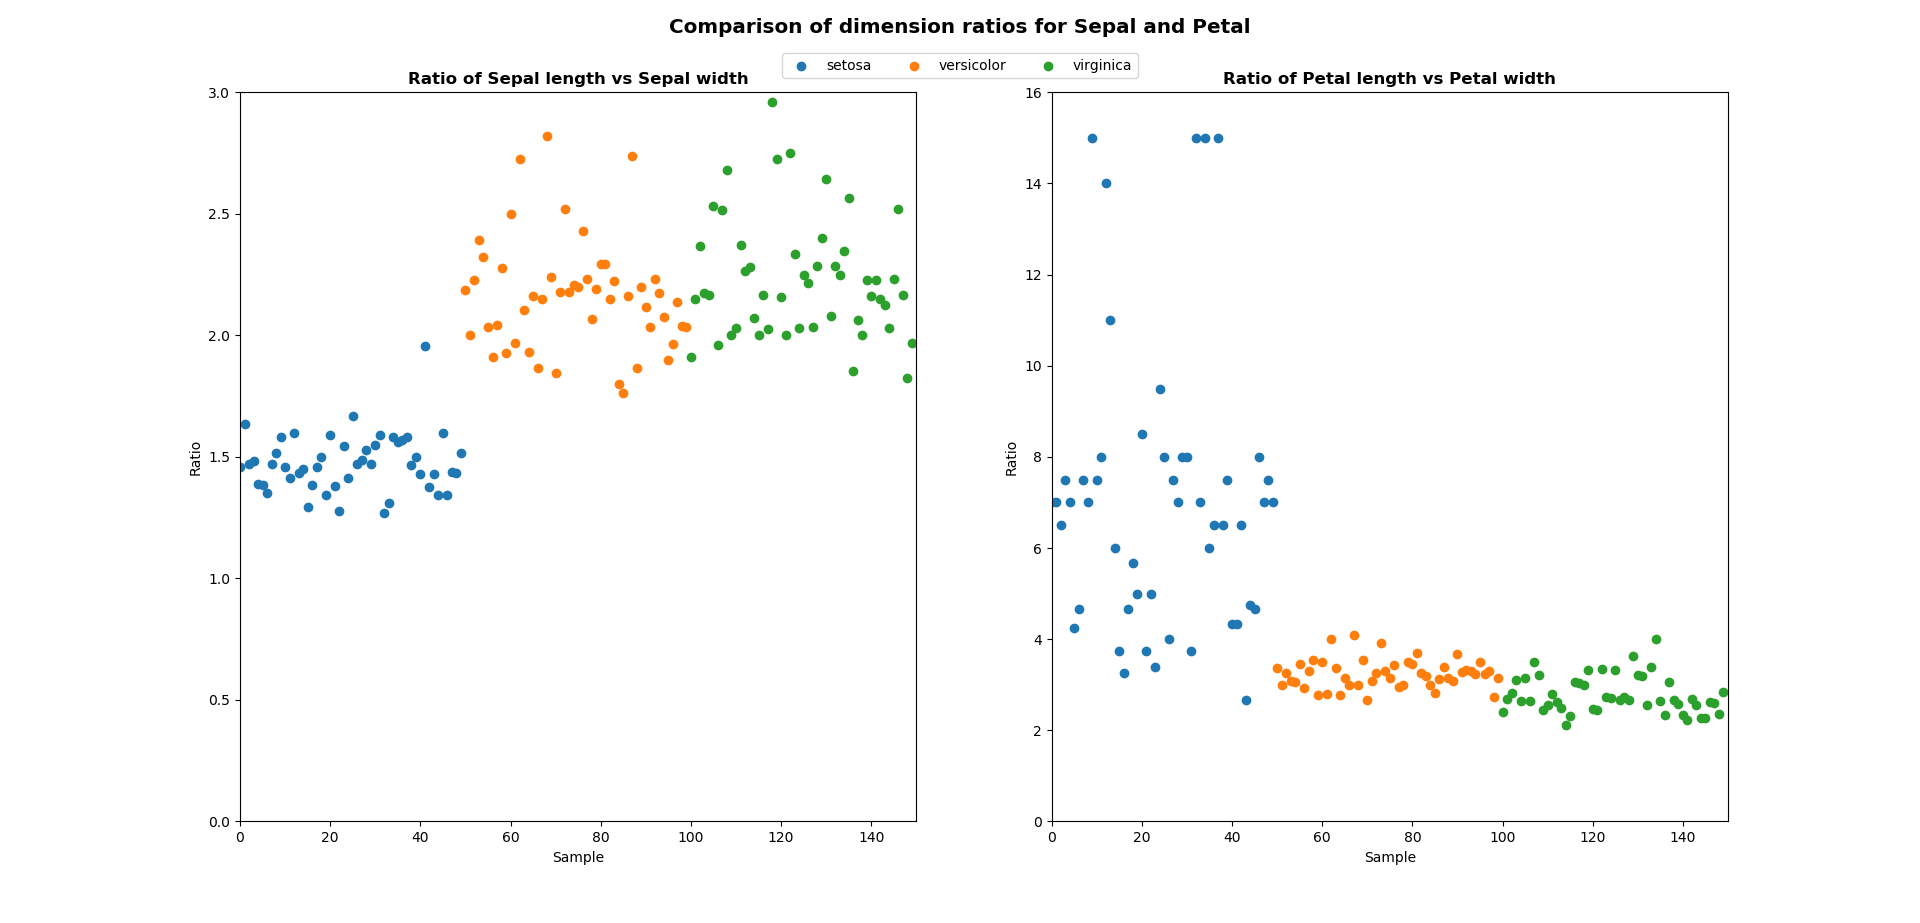
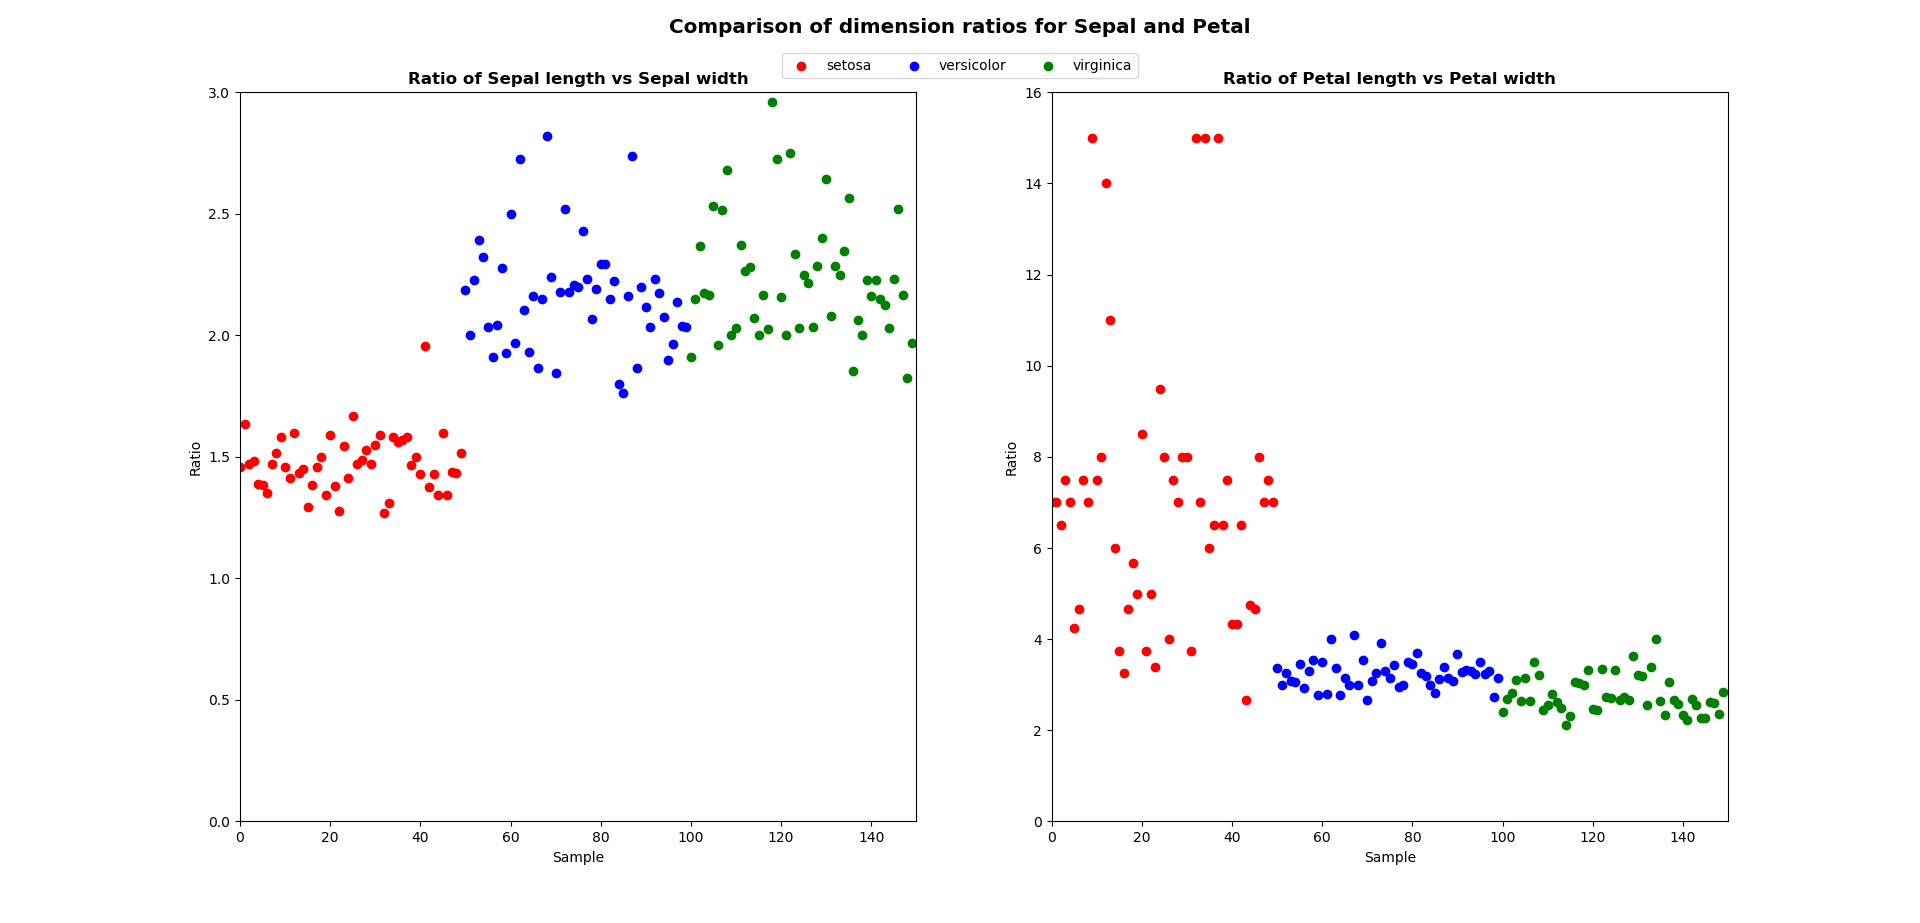
Updated dimensional_ratios.py for plots to be correctly colour coded. Also completed some stats on ratios. Finally, updated Readme.me

diff --git a/dimensional_ratios.py b/dimensional_ratios.py
@@ -1,9 +1,14 @@
-# Code to plot the Fisher's data set data for  individual attributes and compare species
+# Code to plot the Fisher's data set data to compare species wrt sepal and petal dimensional ratios
 # Barry Clarke
-# Rev0 - 19th Apr 2019
+# Rev2 - 19th Apr 2019 - Update to customise colour coding of data to be same as comparison.py
+#                      - Incorporate table of stats for ratios
 
 import matplotlib.pyplot as plt
+import matplotlib.cm as cm # Used for designating colors to particular plots
 import pandas as pd
+import numpy as np
+import datetime
+import csv
 
 # Unlike comparison.py, using dataframes to manipluate data in this program
 df = pd.read_csv('iris.csv', index_col=None)
@@ -16,17 +21,31 @@ st = fig.suptitle("Comparison of dimension ratios for Sepal and Petal", fontsize
 plt.subplot(1,2,1)
 ratio1 = df["sepal_length"]/df["sepal_width"]
 for name, group in df.groupby("species"):   # plot the data by specie. ref: https://stackoverflow.com/questions/45862223/use-different-colors-in-scatterplot-for-iris-dataset
-    plt.scatter(group.index, ratio1[group.index], label=name)
+    # designating specific colours for each group of specie. Ref: https://towarddatascience.com/customizing-plots-with-python-matplotlib-bcf02691931f
+    if name=='setosa':
+        colors = ['#FF0000'] 
+    elif name=='versicolor':
+        colors = ['#0000ff']
+    else:
+        colors = ['#008000']
+    plt.scatter(group.index, ratio1[group.index], label=name, color = colors)
     plt.title("Ratio of Sepal length vs Sepal width", fontweight='bold')
     plt.xlabel("Sample")
     plt.ylabel("Ratio")
     plt.axis([0,150, 0,3])
 
+
 # Plot the ratio of Petal length vs Petal width
 plt.subplot(1,2,2)
 ratio2 = df["petal_length"]/df["petal_width"]
 for name, group in df.groupby("species"):
-    plt.scatter(group.index, ratio2[group.index])
+    if name=='setosa':
+        colors = ['#FF0000']
+    elif name=='versicolor':
+        colors = ['#0000ff']
+    else:
+        colors = ['#008000']
+    plt.scatter(group.index, ratio2[group.index], color = colors)
     plt.title("Ratio of Petal length vs Petal width", fontweight='bold')
     plt.xlabel("Sample")
     plt.ylabel("Ratio")
@@ -37,3 +56,40 @@ fig.subplots_adjust(left=None, bottom=None, right=None, top=0.9)    #Ref: https:
 fig.legend(loc='upper center', bbox_to_anchor=(0.5, 0.95), ncol=3)
 
 plt.show()
+
+# Calculating the mean and standard deviation for the ratios of each specie
+meansetsep = np.mean(ratio1[0:49]) # Avearge of the sepal length/sepal width for the Setosa
+stdsetsep = np.std(ratio1[0:49])   # Standard deviation of the sepal length/sepalwidth for the Setosa
+meansetpet = np.mean(ratio2[0:49]) # Avearge of the petal length/petal width for the Setosa
+stdsetpet = np.std(ratio2[0:49])   # Standard deviation of the petal length/petal width for the Setosa
+
+meanversep = np.mean(ratio1[50:99]) # Avearge of the sepal length/sepal width for the Versicolor
+stdversep = np.std(ratio1[50:99])   # Standard deviation of the sepal length/sepalwidth for the Versicolor
+meanverpet = np.mean(ratio2[50:99]) # Avearge of the petal length/petal width for the Versicolor
+stdverpet = np.std(ratio2[50:99])   # Standard deviation of the petal length/petal width for the Versicolor
+
+meanvirsep = np.mean(ratio1[100:149]) # Avearge of the sepal length/sepal width for the Virginica
+stdvirsep = np.std(ratio1[100:149])   # Standard deviation of the sepal length/sepalwidth for the Virginica
+meanvirpet = np.mean(ratio2[100:149]) # Avearge of the petal length/petal width for the Virginica
+stdvirpet = np.std(ratio2[100:149])   # Standard deviation of the petal length/petal width for the Virginica
+
+# Create a csv filenme from the current date and time
+filename  = datetime.datetime.strftime(datetime.datetime.now(), "Ratio_statistics_%d-%m-%Y.csv")
+
+with open(filename, "w", newline='') as f:
+    # Enable CSV writing to the file
+    writer = csv.writer(f)
+    writer.writerow(["", "", "length/width dimensional ratios", "", ""])
+    # Write a header now
+    writer.writerow(["Sepal or Petal?", "Statistic", "Setosa", "Versicolor", "Virginica"])
+    writer.writerow(["Sepal", "Average", format(meansetsep, '.3f'), format(meanversep, '.3f'), format(meanvirsep, '.3f')])
+    writer.writerow(["Sepal", "Std Dev", format(stdsetsep, '.3f'), format(stdversep,'.3f'), format(stdvirsep, '.3f')])
+    writer.writerow(["Petal", "Average", format(meansetpet, '.3f'), format(meanverpet, '.3f'), format(meanvirpet, '.3f')])
+    writer.writerow(["Petal", "Std Dev", format(stdsetpet, '.3f'), format(stdverpet,'.3f'), format(stdvirpet, '.3f')])
+    writer.writerow([])   
+
+
+
+
+
+

diff --git a/README..md b/README..md
@@ -46,6 +46,8 @@ From these plots, we can make a number of observations:
 1. The sepal lengths and sepal widths for all 3 species are pretty similar, whereas there appears to be a difference in the petal length and petal widths across the 3 species.
 2. The Setosa petal length and width clearly varies from the Versicolor and Virginica petal lengths and widths. It has a smaller petal. It is is quite easy to differentiate the Setosa from the other two species on the basis of the petal dimensions
 3. It is more difficult to differentiate the Versicolor and the Virginica. As the plots show, although the Versicolor petal is slightly smaller in both length and width than the Virginica, there is still some crossover in the data for the Versicolor and Virginica petal. This means that, given a random petal, it would be difficult to decide whether it was a Versicolor or a Virginica.
+4. Looking at the data set a little deeper to try and find improved methods of differentiating all three species from each other with high probability, we have compared and contrasted the ratios of the length/width dimensions for the Sepal and Petal of all three species. These are shown in ![Comparison_of_dimensional_ratios_for_sepal_and_petal.png](/Images/Comparison_of_dimensional_ratios_for_sepal_and_petal.png)) in the Images directory and were calculated and plotted using the [dimensional_ratios.py](dimensional_ratios.py) program. We used pandas and represented the data in dataframes for this program, which is a different management of the data from comparison.py above.
+5. Analysing this data shows us that, once again, Setosa is quite easy to differentiate from Versicolor and Virginica. If we focus on the ratio of sepal length/sepal width, we can clearly identsify the ratio within setosa of averaging 
 4. The above gives us a good idea of the motivation of Fisher in his 1936 paper relating to the iris data set: Given a set of data from different entities, use Linear Discriminant Analysis seperate or differentiate one from another. The ability to apply statistics and mathematics to such a problem was groundbreaking and is why Fisher's paper and this data set is referenced and applied in so many area's to this day
 
 ### 3.3 Fisher's work on the data set
